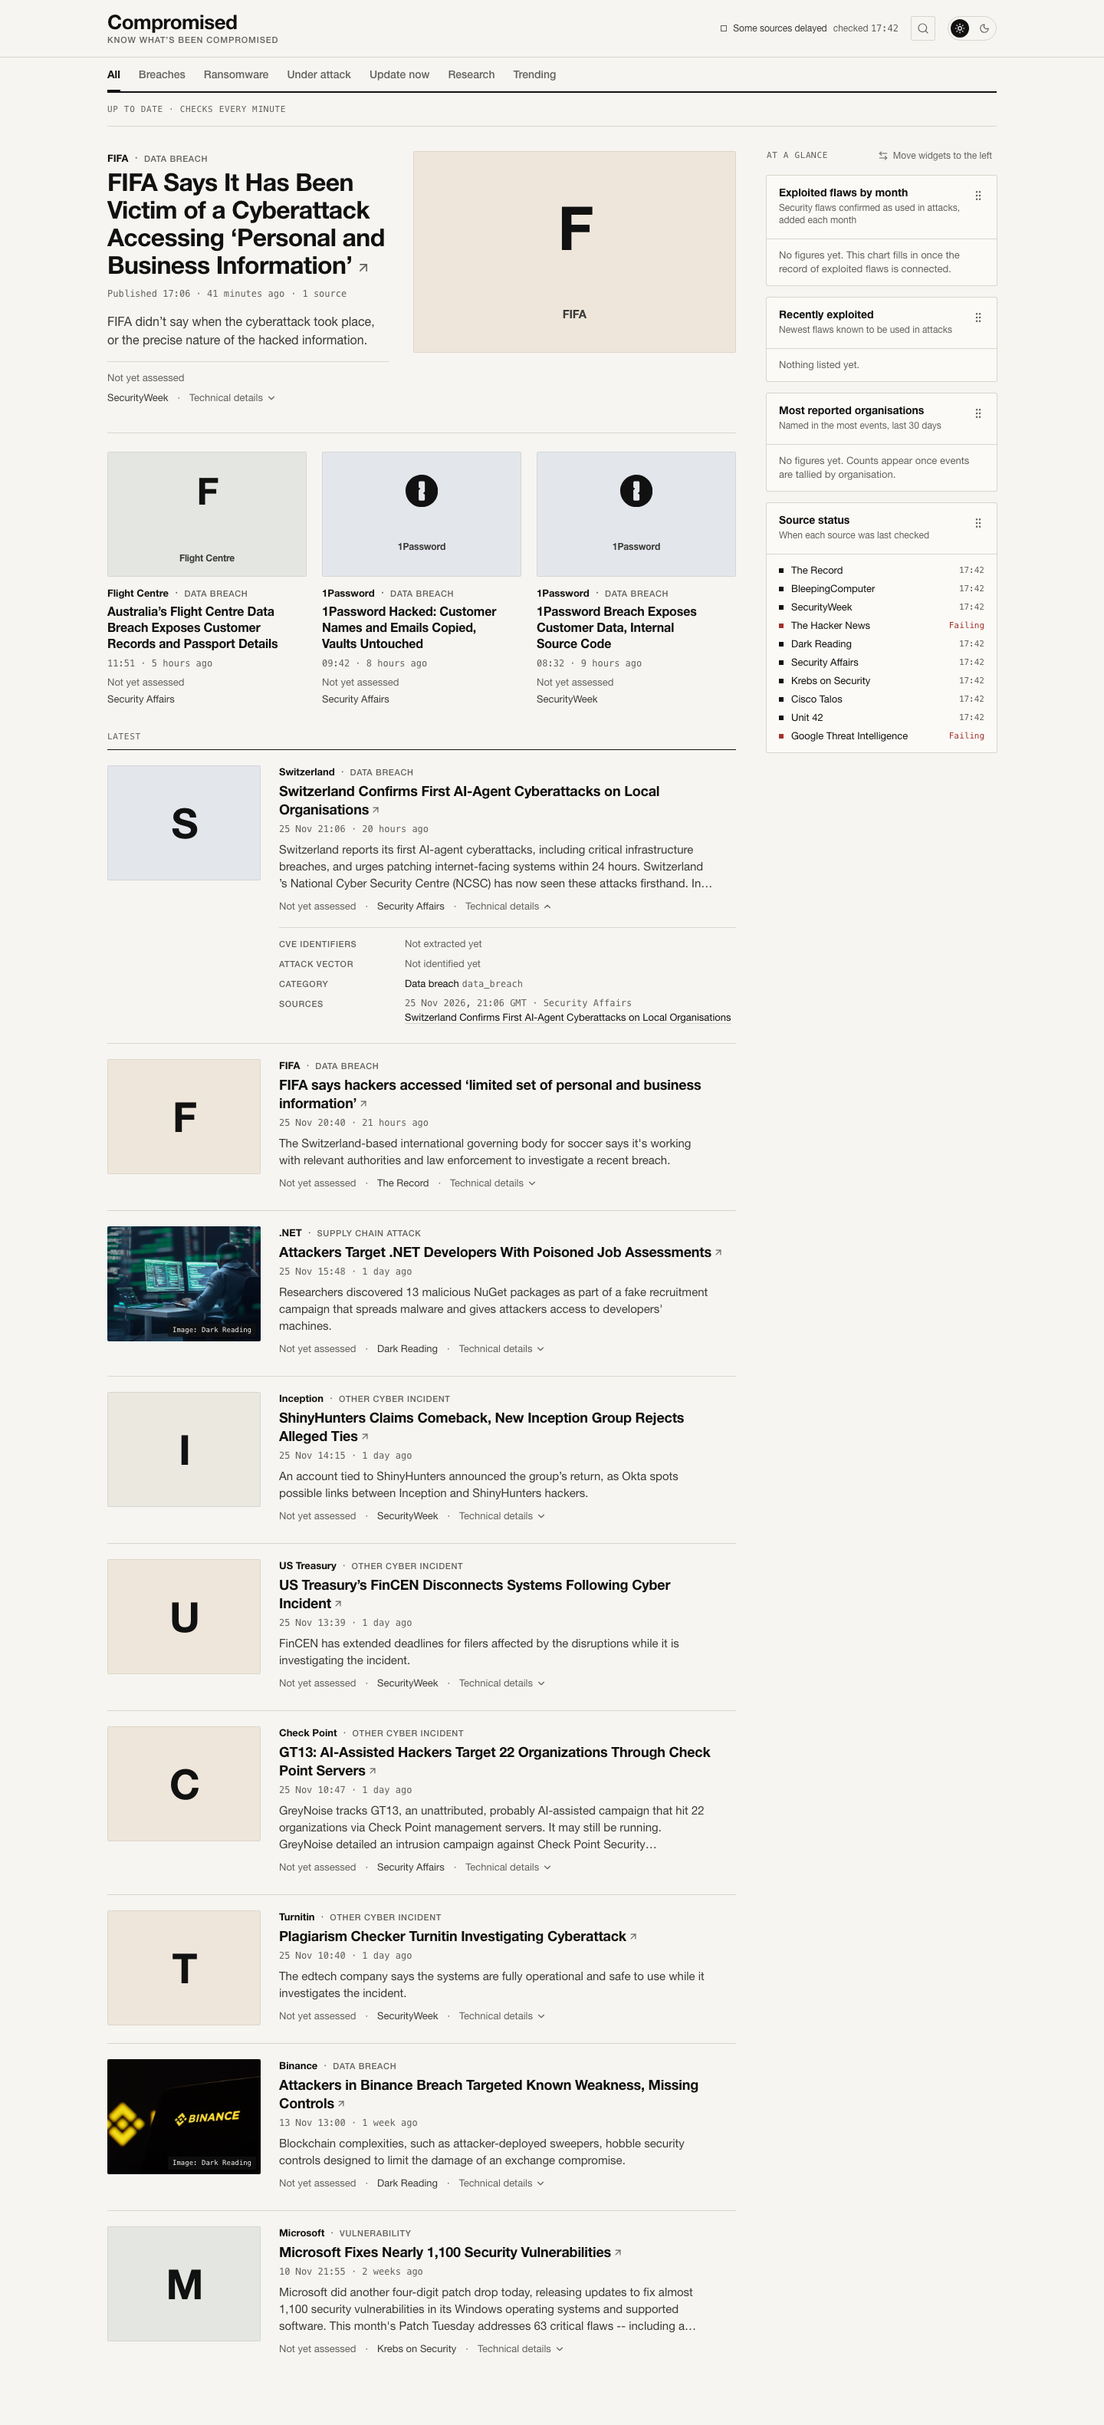
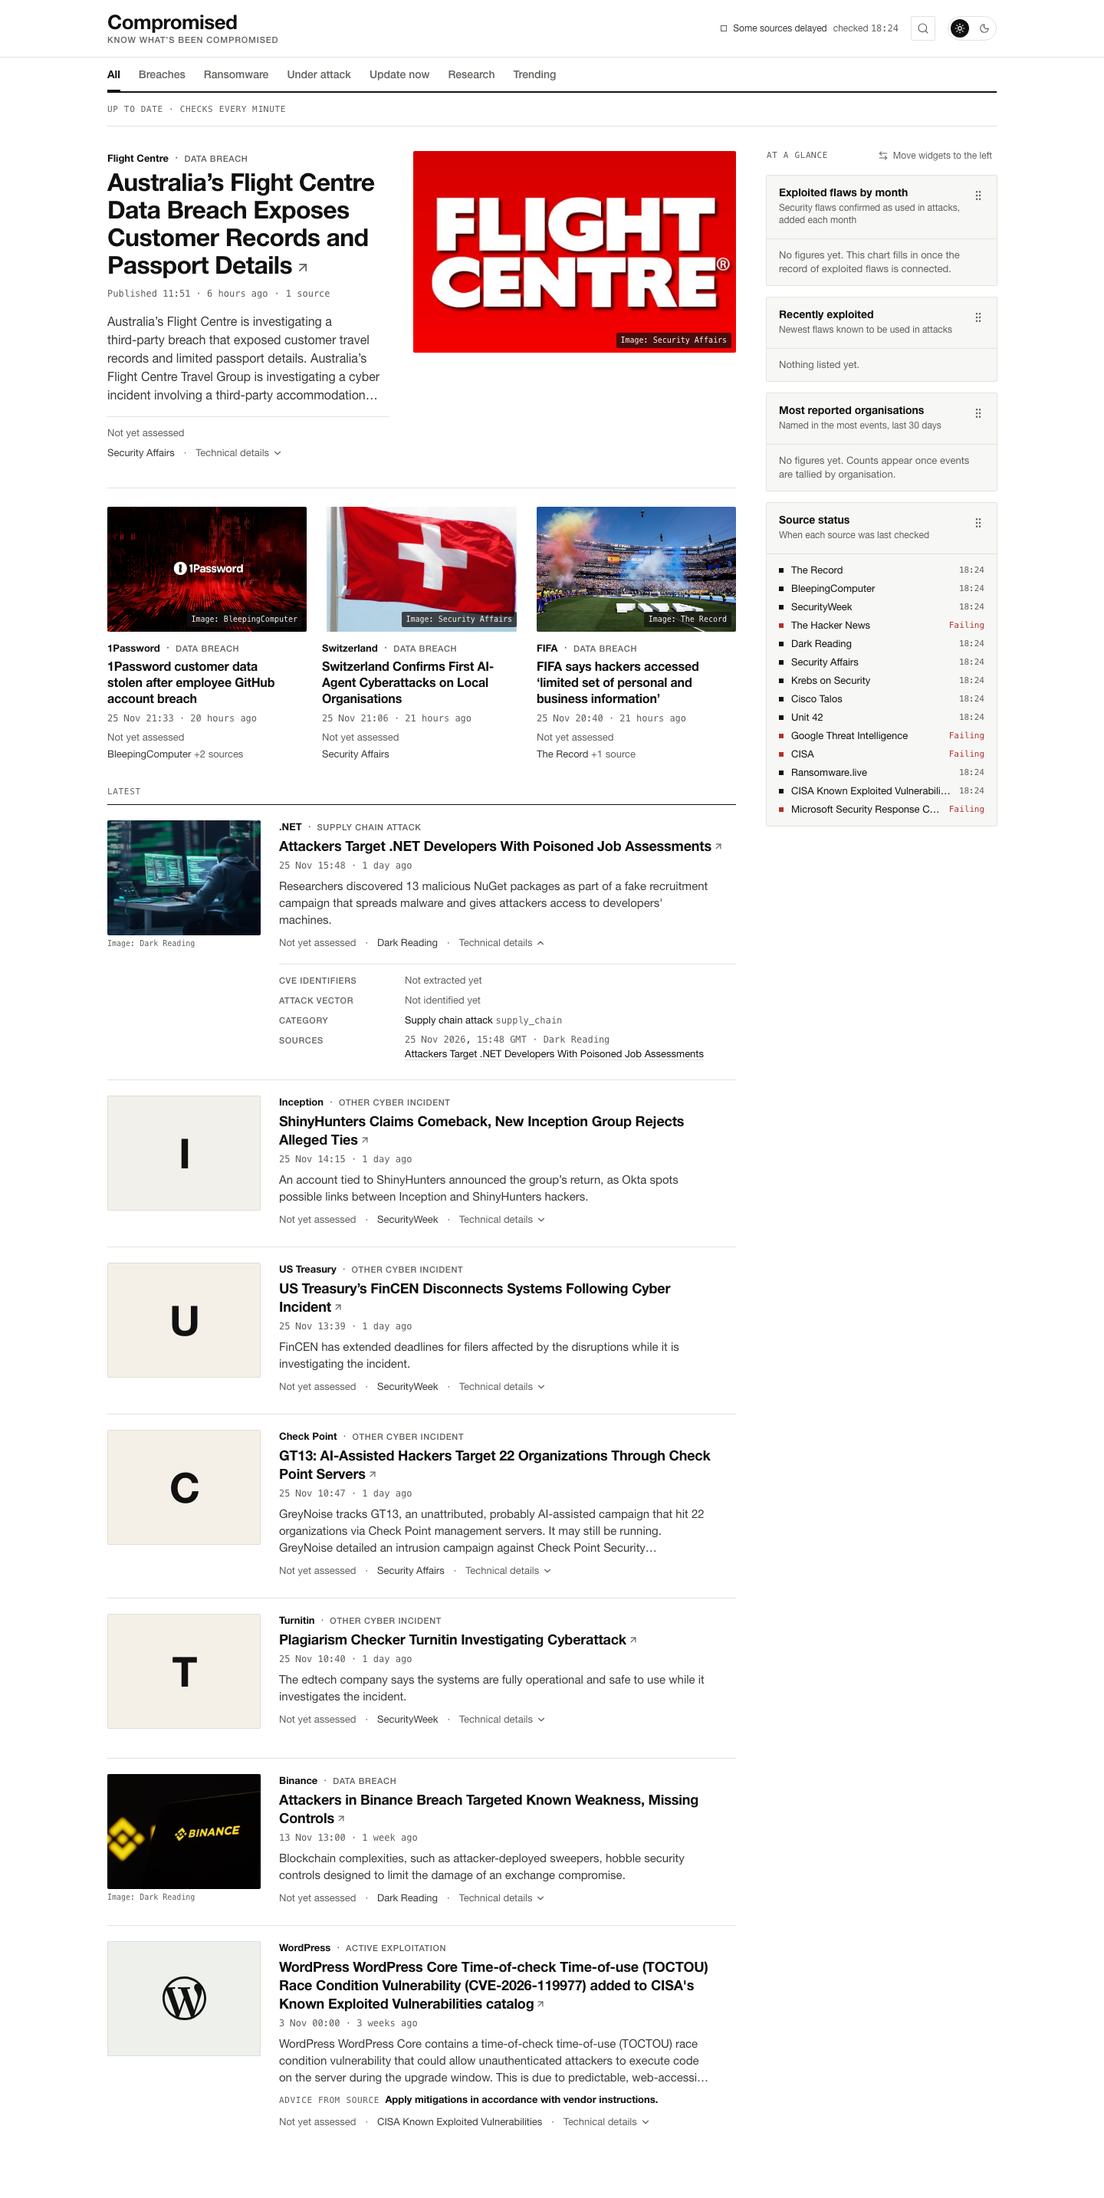
Replace the checkpoint screenshots for the white, smooth, photo-led page
Light-first captures of the real feed (a fresh dev database after #4, #5 and
#8, with article previews fetched politely) and the sample preview, at
desktop, phone and tablet in light and dark. The README records photos per
source, layout shift, the content security policy, off-brand pictures, the
re-measured contrast and the Mobbin and Bencho references for this round.
Small pictures carry their credit on a reserved line beneath them, and the
lead summary is clamped.

Changed region(s): [[0.0938, 0.0, 0.9062, 0.9934], [0.875, 0.2483, 0.9062, 0.3104], [0.8438, 0.0, 0.875, 0.031]]

diff --git a/web/components/feed/event-media.tsx b/web/components/feed/event-media.tsx
@@ -49,7 +49,7 @@ export function EventMedia({
   }, []);
 
   const showImage = Boolean(image) && !failed;
-  return (
+  const picture = (
     <AspectRatio
       ratio={ratio}
       className={cn("overflow-hidden rounded-[2px] bg-surface", className)}
@@ -73,15 +73,17 @@ export function EventMedia({
             data-loaded={loaded || undefined}
             className="event-img absolute inset-0 size-full object-cover"
           />
-          <span
-            className={cn(
-              "absolute right-1.5 bottom-1.5 transition-opacity duration-(--motion-base) max-w-[80%] truncate rounded-[2px] bg-[#111111]/75 px-1.5 py-0.5 font-mono leading-4 text-[#f6f5f1]",
-              size === "thumb" ? "text-[9px]" : "text-[10px]",
-              loaded ? "opacity-100" : "opacity-0",
-            )}
-          >
-            Image: {image!.publisher}
-          </span>
+          {size !== "thumb" && (
+            <span
+              className={cn(
+                size === "card" && "hidden sm:block",
+                "absolute right-1.5 bottom-1.5 max-w-[80%] truncate rounded-[2px] bg-[#111111]/75 px-1.5 py-0.5 font-mono text-[10px] leading-4 text-[#f6f5f1] transition-opacity duration-(--motion-base)",
+                loaded ? "opacity-100" : "opacity-0",
+              )}
+            >
+              Image: {image!.publisher}
+            </span>
+          )}
         </>
       ) : (
         <EventTile
@@ -92,5 +94,22 @@ export function EventMedia({
         />
       )}
     </AspectRatio>
+  );
+  if (size === "lead") return picture;
+  // Small pictures (feed rows always, cards on phones) carry their credit on a line of its own
+  // beneath them, always reserved, so the row is the same height whether the picture loads,
+  // fails or never existed.
+  return (
+    <div>
+      {picture}
+      <p
+        className={cn(
+          "mt-1 h-3.5 truncate font-mono text-[10px] leading-3.5 text-ink-3",
+          size === "card" && "sm:hidden",
+        )}
+      >
+        {showImage && loaded ? `Image: ${image!.publisher}` : ""}
+      </p>
+    </div>
   );
 }

diff --git a/web/components/feed/featured.tsx b/web/components/feed/featured.tsx
@@ -99,7 +99,7 @@ function Lead({ item, now }: { item: FeedItem; now?: Date }) {
           </span>
         </p>
         {summary && (
-          <p className="mt-4 max-w-[60ch] text-[16px] leading-[24px] text-ink-2">
+          <p className="mt-4 line-clamp-5 max-w-[60ch] text-[16px] leading-[24px] text-ink-2">
             {summary.ai && <AiLabel />}
             <TextFade text={summary.text} delay={summaryDelay} step={12} />
           </p>

diff --git a/docs/design/checkpoint/README.md b/docs/design/checkpoint/README.md
@@ -1,15 +1,32 @@
-# Homepage design checkpoint (ticket #9), image-led revision
+# Homepage design checkpoint (ticket #9), white and smooth revision
 
-Screenshots for the owner's sign-off, taken on 2026-11-26 from a production build, as a reader in
-London sees them (times are the reader's local time). This revision follows Niko's review of the
-first, text-only design (see "Niko's review of the first homepage design" in
-`docs/wiki/design-direction.md`).
+Screenshots for the owner's sign-off, taken on 2026-11-26 from a production build, light first, as
+a reader in London sees them (times are the reader's local time). This revision follows Niko's
+second review: article preview images, a white page, and everything smooth.
 
-The real feed shows what one worker run stored from the live feeds on that date: 131 events, 13 of
-them on the All tab, 79 source records with a publisher image. The Hacker News and Google Threat
-Intelligence refused the connection on that run and were not retried. The sample-data preview
-(`/preview`) shows the same components with every field and widget that later tickets fill. Its
-events and figures are invented, and a banner on every screen says so.
+The real feed is a fresh database filled by one more fetch of every feed on that date (after
+tickets #4, #5 and #8 were merged), with article previews asked politely: at most six article
+pages per publisher in all, never the same page twice. The Hacker News and Google Threat
+Intelligence refused the connection, CISA's advisories answered 403 and MSRC 400; none was
+retried. 11 events are on the All tab. The sample-data preview (`/preview`) shows the same
+components with every field and widget filled by invented values under its banner.
+
+### Photos on the real feed (All tab, first page, loaded in a browser)
+
+| Publisher of the event's earliest source | Rows with a photo |
+|---|---|
+| Security Affairs | 2 of 3 |
+| Dark Reading | 2 of 2 |
+| BleepingComputer | 1 of 1 |
+| The Record | 1 of 1 |
+| SecurityWeek | 0 of 3 (all six article pages refused the fetch) |
+| CISA Known Exploited Vulnerabilities | 0 of 1 (structured source, never fetched) |
+| **All** | **6 of 11**, none broken |
+
+The article-preview pass on that date: BleepingComputer 6 of 6 pages had a preview, Security
+Affairs 6 of 6, The Record 5 of 5, Krebs on Security 0 of 6 (no og:image or twitter:image on its
+pages), SecurityWeek 0 of 6 (every page fetch failed), Dark Reading 0 of 1 (failed; its feed
+already carries pictures). Cisco Talos and Unit 42 put pictures in their feeds.
 
 | | Light | Dark | Phone light | Phone dark | Tablet light | Tablet dark |
 |---|---|---|---|---|---|---|
@@ -20,7 +37,34 @@ Desktop is 1440px wide, phone 390px (at 2x), tablet 820px. In each image the fir
 "Technical details" is open. To regenerate: run a web build with `SAMPLE_PREVIEW=1` against an API
 with real events, then `BASE_URL=http://127.0.0.1:3000 node web/scripts/capture-checkpoint.mjs`.
 
-## What changed against the owner's review
+## What changed in the second review
+
+| Asked for | What the page does now |
+|---|---|
+| "yea fetch them" (article preview images) | For a stored record with no feed picture, the worker asks the article page once, ever, for its `og:image` (else `twitter:image`), only on hosts the registry declares as that publisher's article hosts (`Source.article_hosts`; never a feed host such as feedburner, never inferred from feed content; CISA KEV, MSRC and Ransomware.live have none). Through the hardened fetcher: allow-list and re-checked redirects, timeouts, one attempt, only the document head read (256 KB at most), robots.txt honoured, at least the crawl delay (2 s minimum) between pages of one publisher, five pages per publisher per pass. Parsed with Python's HTML parser; nothing is executed. Only https addresses are kept; our server never requests the picture. The outcome is stored in `article_previews`, apart from the record, which stays as fetched. Feed pictures offered over http (The Record) are stored in their https form. |
+| A switch per source | `Source.publisher_images` in the registry and `PUBLISHER_IMAGES_OFF_FOR=darkreading,...` at run time, beside `PUBLISHER_IMAGES=off` for everything. All on by default. |
+| Featured story prefers a picture | The newest named, unclaimed event leads unless an event with a picture is at most 24 hours older, which then leads instead, so a picture never lets old news displace today's. |
+| "the website should be white" | Pure white ground, with dividers, tile grounds and the muted red re-tuned and re-measured below. Light is the default for every visitor whatever their system setting; dark stays behind the toggle. |
+| "everything very smooth" | One set of motion tokens (`--motion-fast` 140 ms, `--motion-base` 220 ms, `--motion-slow` 320 ms, one ease-out curve). Pictures fade in over a box reserved by its aspect ratio, with a quiet shimmer while they load. Hover and focus ease; headline underlines fade in. The tab underline slides from tab to tab. Technical details and newly loaded rows open to their height. Widgets glide out of the way while one is dragged. Switching the rail's side and switching tabs are view transitions; the masthead holds still. The loading skeleton has the final layout's boxes. Everything is off under reduced motion. |
+
+Cumulative layout shift on the homepage, measured by the browser suite (`web/e2e/smooth.spec.ts`)
+while the page loads and is scrolled to the end: **0.0005 to 0.0026 on desktop** (1280x720) and
+**0.0000 on a phone** (390x844), across repeated runs. "Good" is under 0.1.
+
+Content security policy (a header from `web/next.config.ts`; nonces are not possible with partial
+prerendering): `default-src 'self'; script-src 'self' 'unsafe-inline'; style-src 'self'
+'unsafe-inline'; img-src 'self' data: https:; font-src 'self'; connect-src 'self'; object-src
+'none'; base-uri 'self'; form-action 'self'; frame-ancestors 'none'; upgrade-insecure-requests`,
+plus `Referrer-Policy: no-referrer`. Pictures may come from any https host a publisher names, and
+from nothing over plain http. Development adds `'unsafe-eval'` and websocket connections for
+hot reload.
+
+Pictures that look off-brand on this date: Dark Reading's picture for the .NET story is a hooded
+figure in front of green code (exactly the banned imagery), and BleepingComputer's 1Password
+picture is a red "digital code" illustration (borderline). Both sources stay on by default, as
+asked; `PUBLISHER_IMAGES_OFF_FOR=darkreading` would remove Dark Reading's.
+
+## What changed against the owner's first review
 
 | Asked for | What the page does now |
 |---|---|
@@ -60,6 +104,7 @@ Searched with the Mobbin MCP on 2026-11-26 (`search_screens`, web and iOS).
 | Image credit chip on the picture | Perplexity article page: https://mobbin.com/screens/626cd530-7a9d-4b33-8e12-70b356083244 |
 | Phone: picture above the lead headline, smaller pictures beside headlines below | Perplexity iOS Discover: https://mobbin.com/screens/cbca6cd0-2be2-4b07-b4a0-049a259ea642; Apple News: https://mobbin.com/screens/9d5426c7-3903-4c59-acfb-b5931592f42c |
 | Widgets the reader rearranges by dragging | Evernote "Customize your Home": https://mobbin.com/screens/c3ebaee2-159b-4cb8-96ff-856640b7a041; Xero business overview: https://mobbin.com/screens/c86d6e12-6b97-47de-b96b-33e24d57e1fe |
+| White editorial ground, pictures beside headlines, hairlines between stories (second review) | Quartz: https://mobbin.com/screens/f4c1e482-190b-41f3-ac26-832048c1d524; The New York Times: https://mobbin.com/screens/ec249545-a287-4da4-885d-2ad20ae9b0c4; Perplexity Discover: https://mobbin.com/screens/423c2053-3a7f-4e84-ac8a-0723f1790a45 |
 | Kept from the first round: underline tabs, mono times, red only for LIVE and claims, plain-words reliability label | NYT, T1 Energy, Substack, Fey (links in the research notes) |
 
 ## Bencho blocks used
@@ -78,6 +123,8 @@ snippet collection, or a service that hands blocks to others). Every Pro adaptat
 | Notification widget (`notify-widget`) | Pro | The "N new events" bar | `web/components/bencho-pro/new-events-bar.tsx` |
 | FAQ accordion (`faq-accordion`) | Pro | Technical details expand | `web/components/bencho-pro/technical-details.tsx` |
 | Theme switch (`theme-switch`) | Pro | Header theme switch | `web/components/bencho-pro/theme-switch.tsx` |
+| Image shimmer (`image-shimmer`) | Pro | The reserved picture box while a picture loads, kept monochrome (its colour prism dropped) | `web/components/bencho-pro/image-shimmer.css` |
+| Skeleton morph (`skeleton-morph`) | Pro | Loading skeleton bars that breathe in colour, in the final layout's boxes | `web/components/bencho-pro/home-skeleton.tsx` |
 | Stacked bars (`stacked-bars`) | MIT | The exploitation chart's ring, step-back and gliding tooltip | `web/components/widgets/exploitation-chart.tsx` (notice in `web/licenses/bencho-mit.txt`) |
 | Search (`seek`), Rolling counter (`rolling-counter`) | MIT | Header search; the count in the new-events bar | unchanged from the first round |
 
@@ -87,8 +134,10 @@ Its press-to-replay behaviour is removed because the text is a link.
 
 ## shadcn/ui components used
 
-New this round: `aspect-ratio` (every picture and tile), `card` (each widget), `toggle-group` (the
-chart's view switcher, present in the component but not rendered while only one view exists).
+Added in the image-led round: `aspect-ratio` (every picture and tile, reserving its box),
+`card` (each widget), `toggle-group` (the chart's view switcher, present in the component but not
+rendered while only one view exists). The tab underline uses Base UI's `Tabs.Indicator` under the
+shadcn `tabs`, and the loading skeleton is built from `skeleton`.
 Still used: `item` (feed rows), `tabs` (section tabs), `collapsible` (Technical details), `badge`
 (trust label), `separator`, `empty`, `skeleton`, `input`, `button`.
 
@@ -100,25 +149,29 @@ marks).
 
 | Pair | Use | Light | Dark | Needs |
 |---|---|---|---|---|
-| `c-ink` on `c-bg` | Headlines, organisation, body | 17.31:1 | 15.85:1 | 4.5:1 |
-| `c-ink-2` on `c-bg` | Summaries, excerpts | 10.45:1 | 10.51:1 | 4.5:1 |
-| `c-ink-3` on `c-bg` | Metadata, timestamps, tabs | 5.58:1 | 6.48:1 | 4.5:1 |
-| `c-ink-3` on `c-surface` | Metadata on surfaces | 5.83:1 | 5.97:1 | 4.5:1 |
-| `c-accent` on `c-bg` | LIVE kicker, attacker-claim label | 6.31:1 | 5.82:1 | 4.5:1 |
+| `c-ink` on `c-bg` | Headlines, organisation, body | 18.88:1 | 15.85:1 | 4.5:1 |
+| `c-ink-2` on `c-bg` | Summaries, excerpts | 11.40:1 | 10.51:1 | 4.5:1 |
+| `c-ink-3` on `c-bg` | Metadata, timestamps, tabs | 6.27:1 | 6.48:1 | 4.5:1 |
+| `c-ink-3` on `c-surface` | Metadata on surfaces | 5.85:1 | 5.97:1 | 4.5:1 |
+| `c-accent` on `c-bg` | LIVE kicker, attacker-claim label | 6.29:1 | 5.82:1 | 4.5:1 |
 | `c-accent` on `c-accent-soft` | Sample data banner label | 5.56:1 | 5.08:1 | 4.5:1 |
-| `c-ink` on `c-accent-soft` | Sample data banner text | 15.26:1 | 13.83:1 | 4.5:1 |
-| `c-bg` on `c-ink` | New-events bar text | 17.31:1 | 15.85:1 | 4.5:1 |
-| `c-rule-strong` on `c-bg` | Section rules (non-text) | 17.31:1 | 15.85:1 | 3:1 |
-| `c-ink` on `c-surface` | Widget titles and values | 18.09:1 | 14.62:1 | 4.5:1 |
-| `c-ink-2` on `c-surface` | Chart labels, widget text | 10.92:1 | 9.69:1 | 4.5:1 |
-| `c-accent` on `c-surface` | Spike columns (non-text) | 6.60:1 | 5.37:1 | 3:1 |
-| `chart-grey` on `c-surface` | Other chart columns (non-text) | 3.30:1 | 3.18:1 | 3:1 |
+| `c-ink` on `c-accent-soft` | Sample data banner text | 16.67:1 | 13.83:1 | 4.5:1 |
+| `c-bg` on `c-ink` | New-events bar text | 18.88:1 | 15.85:1 | 4.5:1 |
+| `c-rule-strong` on `c-bg` | Section rules (non-text) | 18.88:1 | 15.85:1 | 3:1 |
+| `c-ink` on `c-surface` | Widget titles and values | 17.60:1 | 14.62:1 | 4.5:1 |
+| `c-ink-2` on `c-surface` | Chart labels, widget text | 10.63:1 | 9.69:1 | 4.5:1 |
+| `c-accent` on `c-surface` | Spike columns (non-text) | 5.87:1 | 5.37:1 | 3:1 |
+| `chart-grey` on `c-surface` | Other chart columns (non-text) | 3.26:1 | 3.18:1 | 3:1 |
 | `#f6f5f1` on 75% `#111111` over white | Image credit on the lightest possible picture | 7.75:1 | 7.75:1 | 4.5:1 |
-| `c-ink` on `tile-1`…`tile-5` | Tile logo or lettermark | 14.84–15.42:1 | 13.78–14.01:1 | 3:1 |
-| `c-ink-2` on `tile-1`…`tile-5` | Tile organisation caption | 8.96–9.31:1 | 9.14–9.29:1 | 4.5:1 |
+| `c-ink` on `tile-1`…`tile-5` | Tile logo or lettermark | 16.26–16.64:1 | 13.78–14.01:1 | 3:1 |
+| `c-ink-2` on `tile-1`…`tile-5` | Tile organisation caption | 9.81–10.04:1 | 9.14–9.29:1 | 4.5:1 |
+
+Light tokens now: ground `#ffffff`, surface `#f7f7f5`, ink `#111111` / `#3a3a38` / `#62605c`,
+rule `#e4e2dd`, muted red `#b0322b` on `#fbeeec`, tile grounds `#f2f0eb` `#edf0eb` `#eceef2`
+`#f5f0e7` `#f4ede9`. Dark is unchanged.
 
 The chart's two mark colours were also run through the dataviz skill's palette validator against
-each theme's widget surface: CVD separation ΔE 15.7 (light) and 9.0 (dark), normal-vision ΔE 21.0
+each theme's widget surface: CVD separation ΔE 13.9 (light) and 9.0 (dark), normal-vision ΔE 20.4
 and 19.4, both above 3:1 on the surface. Its "chroma floor" check flags the grey, which is the
 intended de-emphasis grey of the emphasis form, not a categorical colour. Spike months also carry
 their value above the column, so colour is never the only signal.

diff --git a/web/components/bencho-pro/README.md b/web/components/bencho-pro/README.md
@@ -15,13 +15,16 @@ project owner). Contributors who take new Pro blocks need their own Pro licence.
 
 So: use these files as part of Compromised. Do not copy them out of this project into another
 one, publish them as components, or relicense them under MIT. To drop Bencho Pro, replace the
-files below; nothing outside this folder contains Pro block code.
+files below; nothing outside this folder contains Pro block code, apart from two small CSS rules
+in `app/globals.css` that this table names.
 
 | File | Bencho block | What was kept / changed |
 |---|---|---|
 | `text-fade/text-fade.tsx`, `text-fade/text-fade.css` | Text fade (`text-fade`, TextReveal) | The blur-rise keyframe, expo-out easing and one-keyframe-many-delays method, with the block's comments. Words split only; press-to-replay removed; tokens mapped to ours. |
-| `text-fade/arrival-fade.tsx` | Text fade (as above) | Plays the fade only for events that arrive after the page loaded. |
+| `text-fade/arrival-fade.tsx` | Text fade (as above) | Plays the fade only for events that arrive after the page loaded, and opens their rows to their height (`.arrival` in `app/globals.css`). |
 | `arrange/widget-rail.tsx`, `arrange/arrangement.ts` | Reorder list (`liq-arrange`, Arrange) | Pointer drag pinned to its start slot, reorder under the gesture, elastic spring. Goo filter, squash and lean removed; handle, keyboard moves and side switch added. |
+| `image-shimmer.css` | Image shimmer (`image-shimmer`) | The placeholder band of light while a picture loads; its colour prism and rim dropped. |
+| `home-skeleton.tsx` (and `.skm-bar` in `app/globals.css`) | Skeleton morph (`skeleton-morph`) | Bars that breathe in colour, not opacity; the morph into content is not used. |
 | `technical-details.tsx` | FAQ accordion (`faq-accordion`) | The `0fr -> 1fr` grid-row opening and the flipping chevron; state from the shadcn Collapsible. |
 | `new-events-bar.tsx` | Notification widget (`notify-widget`) | The pill and its rolling "N new" swap only. |
 | `theme-switch.tsx` | Theme switch (`theme-switch`) | Restyled; driven by next-themes. |
